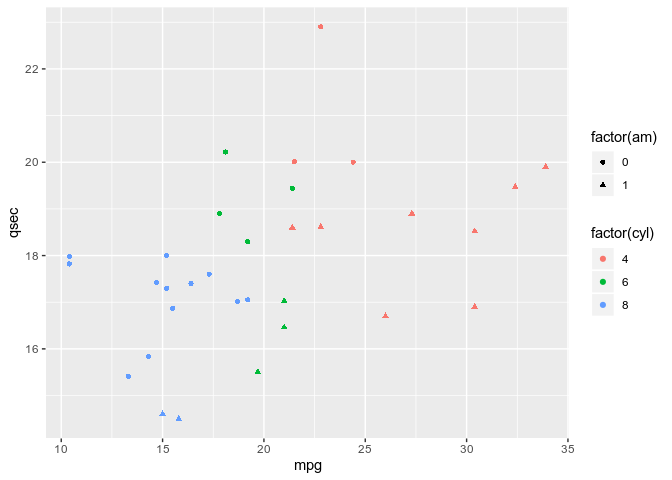
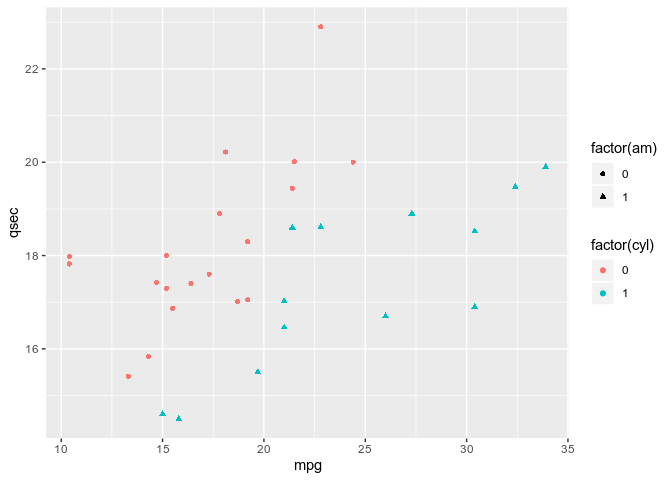
modify module 7

Changed region(s): [[0.875, 0.4688, 0.9688, 0.6562], [0.875, 0.2812, 1.0, 0.375], [0.0938, 0.5312, 0.125, 0.5625]]

diff --git a/vignettes/MFM-R-M7.md b/vignettes/MFM-R-M7.md
@@ -192,7 +192,7 @@ abline(carModel, lty = 2)
 plot(mtcars$wt, mtcars$mpg, col = mtcars$cyl)
 lapply(mtcars$cyl, function(x) {
   abline(lm(mpg ~ wt, mtcars, subset = (cyl == x)), col = x)
-  })
+})
 ```
 
     ## [[1]]
@@ -293,8 +293,10 @@ lapply(mtcars$cyl, function(x) {
 
 ``` r
 # Tampilkan legend
-legend(x = 5, y = 33, legend = levels(mtcars$cyl),
-       col = 1:3, pch = 1, bty = "n")
+legend(
+  x = 5, y = 33, legend = levels(mtcars$cyl),
+  col = 1:3, pch = 1, bty = "n"
+)
 ```
 
 ![](MFM-R-M7_files/figure-gfm/unnamed-chunk-18-1.png)<!-- -->
@@ -320,6 +322,20 @@ class(mtcars$am) # ubah jadi factor
     ## [1] "numeric"
 
 ``` r
+mtcars$am <- as.factor(mtcars$am)
+class(mtcars$am)
+```
+
+    ## [1] "factor"
+
+``` r
+class(mtcars$cyl)
+```
+
+    ## [1] "factor"
+
+``` r
+mtcars$cyl <- as.factor(mtcars$am)
 class(mtcars$cyl)
 ```
 
@@ -391,16 +407,17 @@ ggplot(mtcars, aes(x = wt, y = mpg, fill = cyl)) +
 Pasang mpg ke sumbu x, pasang qsec ke sumbu y dan factor(cyl) pada col
 
 ``` r
-ggplot(mtcars, aes(x= mpg, y=qsec, col=factor(cyl))) +
+ggplot(mtcars, aes(x = mpg, y = qsec, col = factor(cyl))) +
   geom_point()
 ```
 
 ![](MFM-R-M7_files/figure-gfm/unnamed-chunk-27-1.png)<!-- -->
 
-Pasang factor(am) ke parameter shape
+Pasang factor(am) ke parameter
+shape
 
 ``` r
-ggplot(mtcars, aes(x= mpg, y=qsec, col=factor(cyl), shape=factor(am))) +
+ggplot(mtcars, aes(x = mpg, y = qsec, col = factor(cyl), shape = factor(am))) +
   geom_point()
 ```
 
@@ -410,7 +427,7 @@ Pasang (hp/wt) ke parameter
 size
 
 ``` r
-ggplot(mtcars, aes(x= mpg, y=qsec, col=factor(cyl), shape=factor(am), size=(hp/wt))) +
+ggplot(mtcars, aes(x = mpg, y = qsec, col = factor(cyl), shape = factor(am), size = (hp / wt))) +
   geom_point()
 ```
 
@@ -427,7 +444,7 @@ cyl.am <- ggplot(mtcars, aes(x = factor(cyl), fill = factor(am)))
 Tambahkan geom\_bar()
 
 ``` r
-cyl.am + 
+cyl.am +
   geom_bar()
 ```
 
@@ -436,7 +453,7 @@ cyl.am +
 Tambahkan parameter position dengan isi **“fill”**
 
 ``` r
-cyl.am + 
+cyl.am +
   geom_bar(position = "fill")
 ```
 
@@ -454,15 +471,16 @@ cyl.am +
 Gunakan fungsi scale\_\* untuk merapikan sumbu x dan y
 
 ``` r
-val = c("#E41A1C", "#377EB8")
-lab = c("Manual", "Automatic")
+val <- c("#E41A1C", "#377EB8")
+lab <- c("Manual", "Automatic")
 cyl.am +
   geom_bar(position = "dodge") +
-  scale_x_discrete("Cylinders") + 
+  scale_x_discrete("Cylinders") +
   scale_y_continuous("Number") +
-  scale_fill_manual("Transmission", 
-                    values = val,
-                    labels = lab)
+  scale_fill_manual("Transmission",
+    values = val,
+    labels = lab
+  )
 ```
 
 ![](MFM-R-M7_files/figure-gfm/unnamed-chunk-34-1.png)<!-- -->
